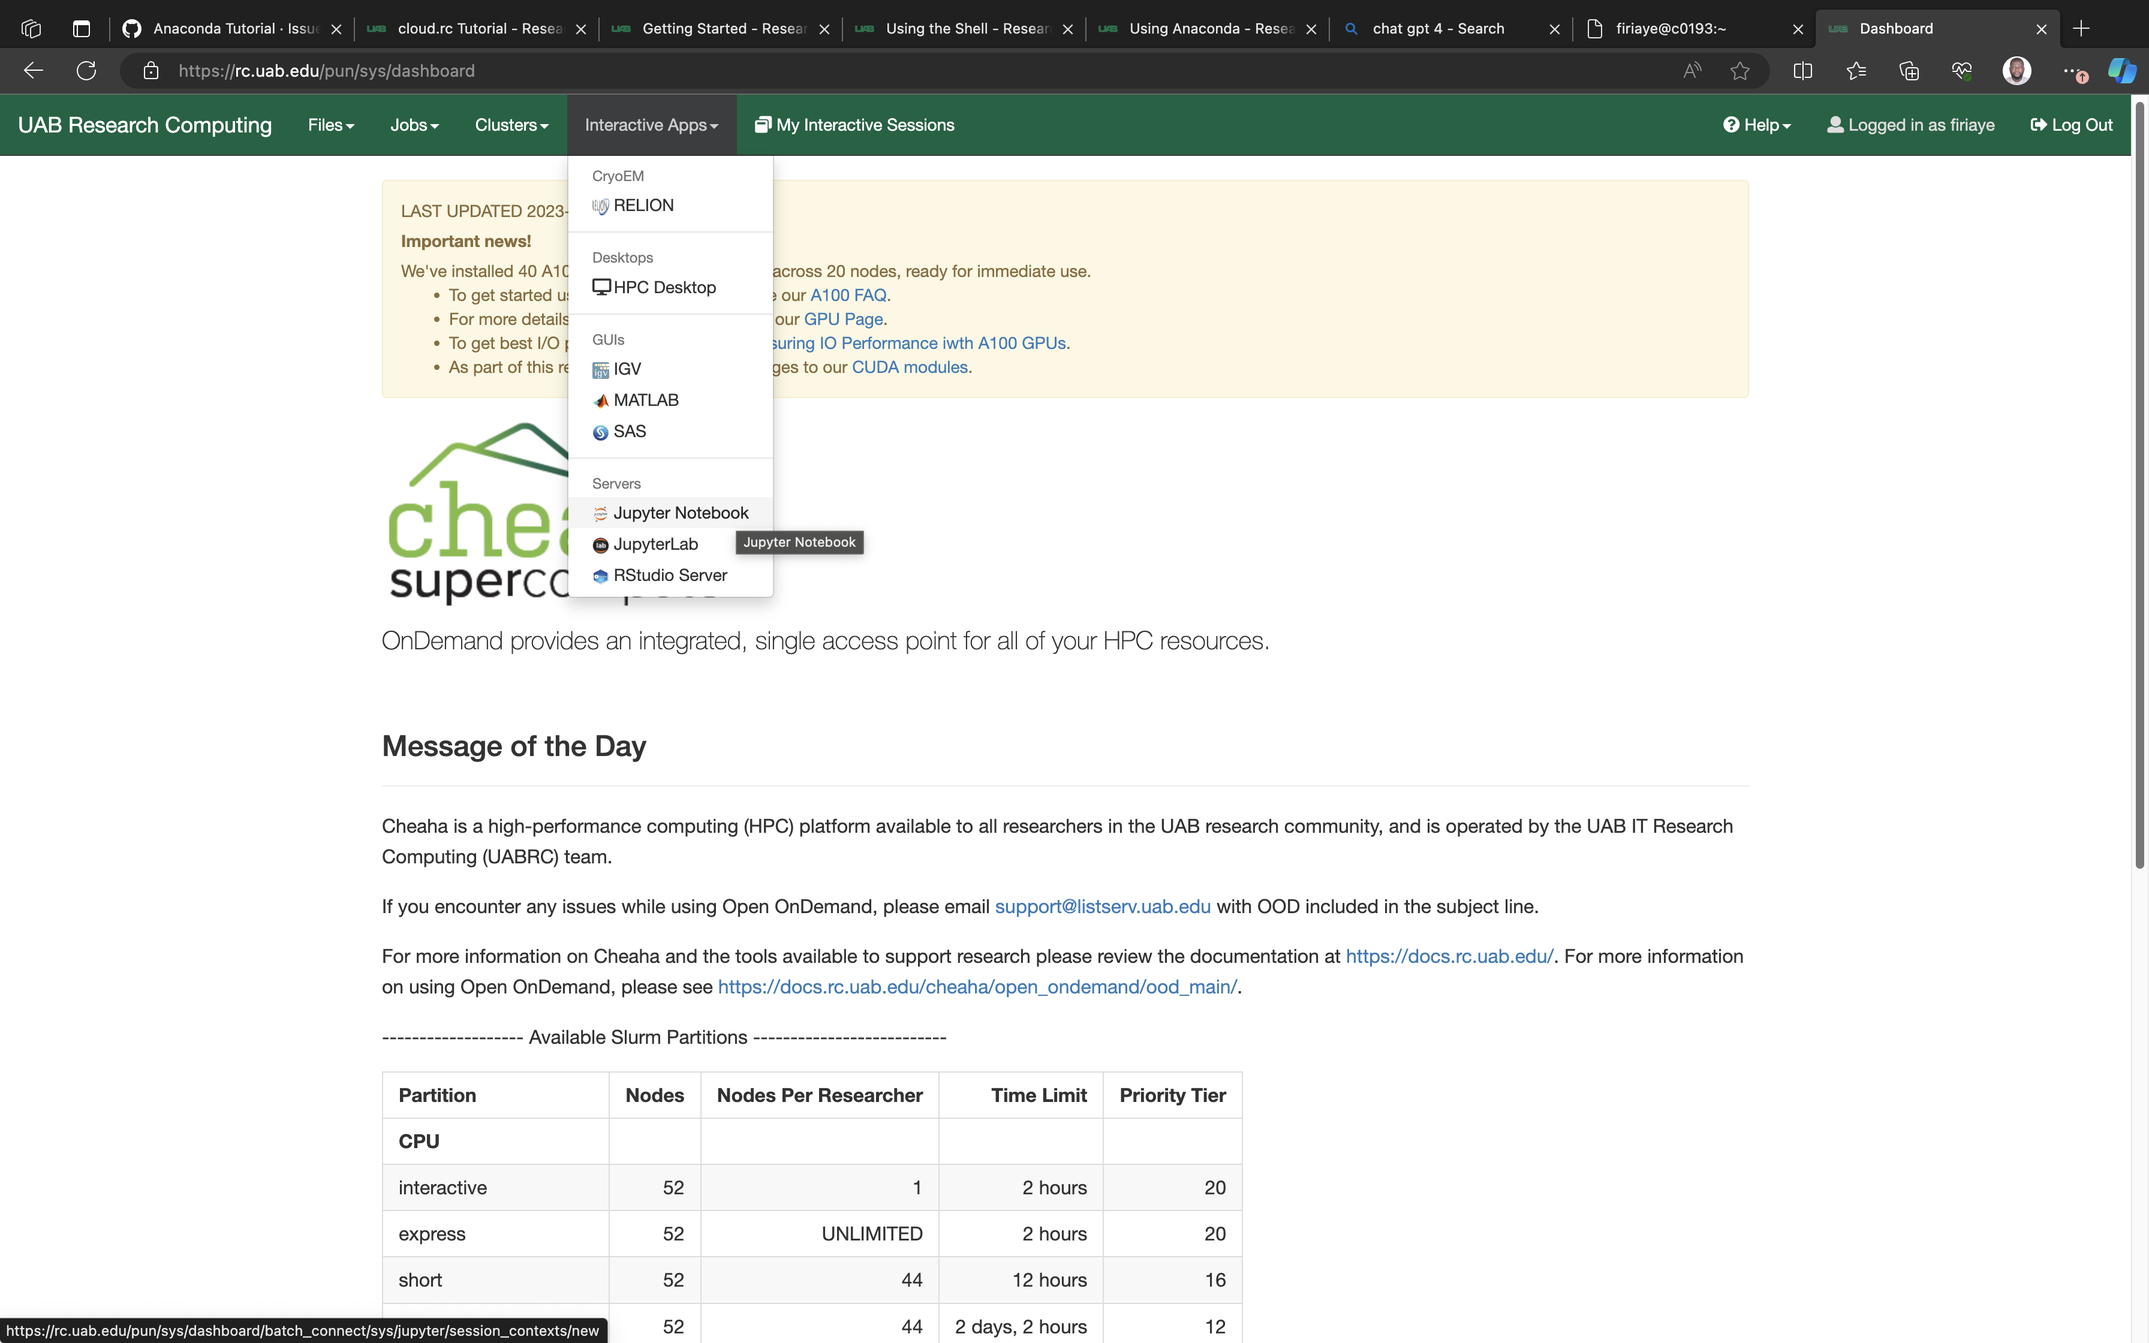
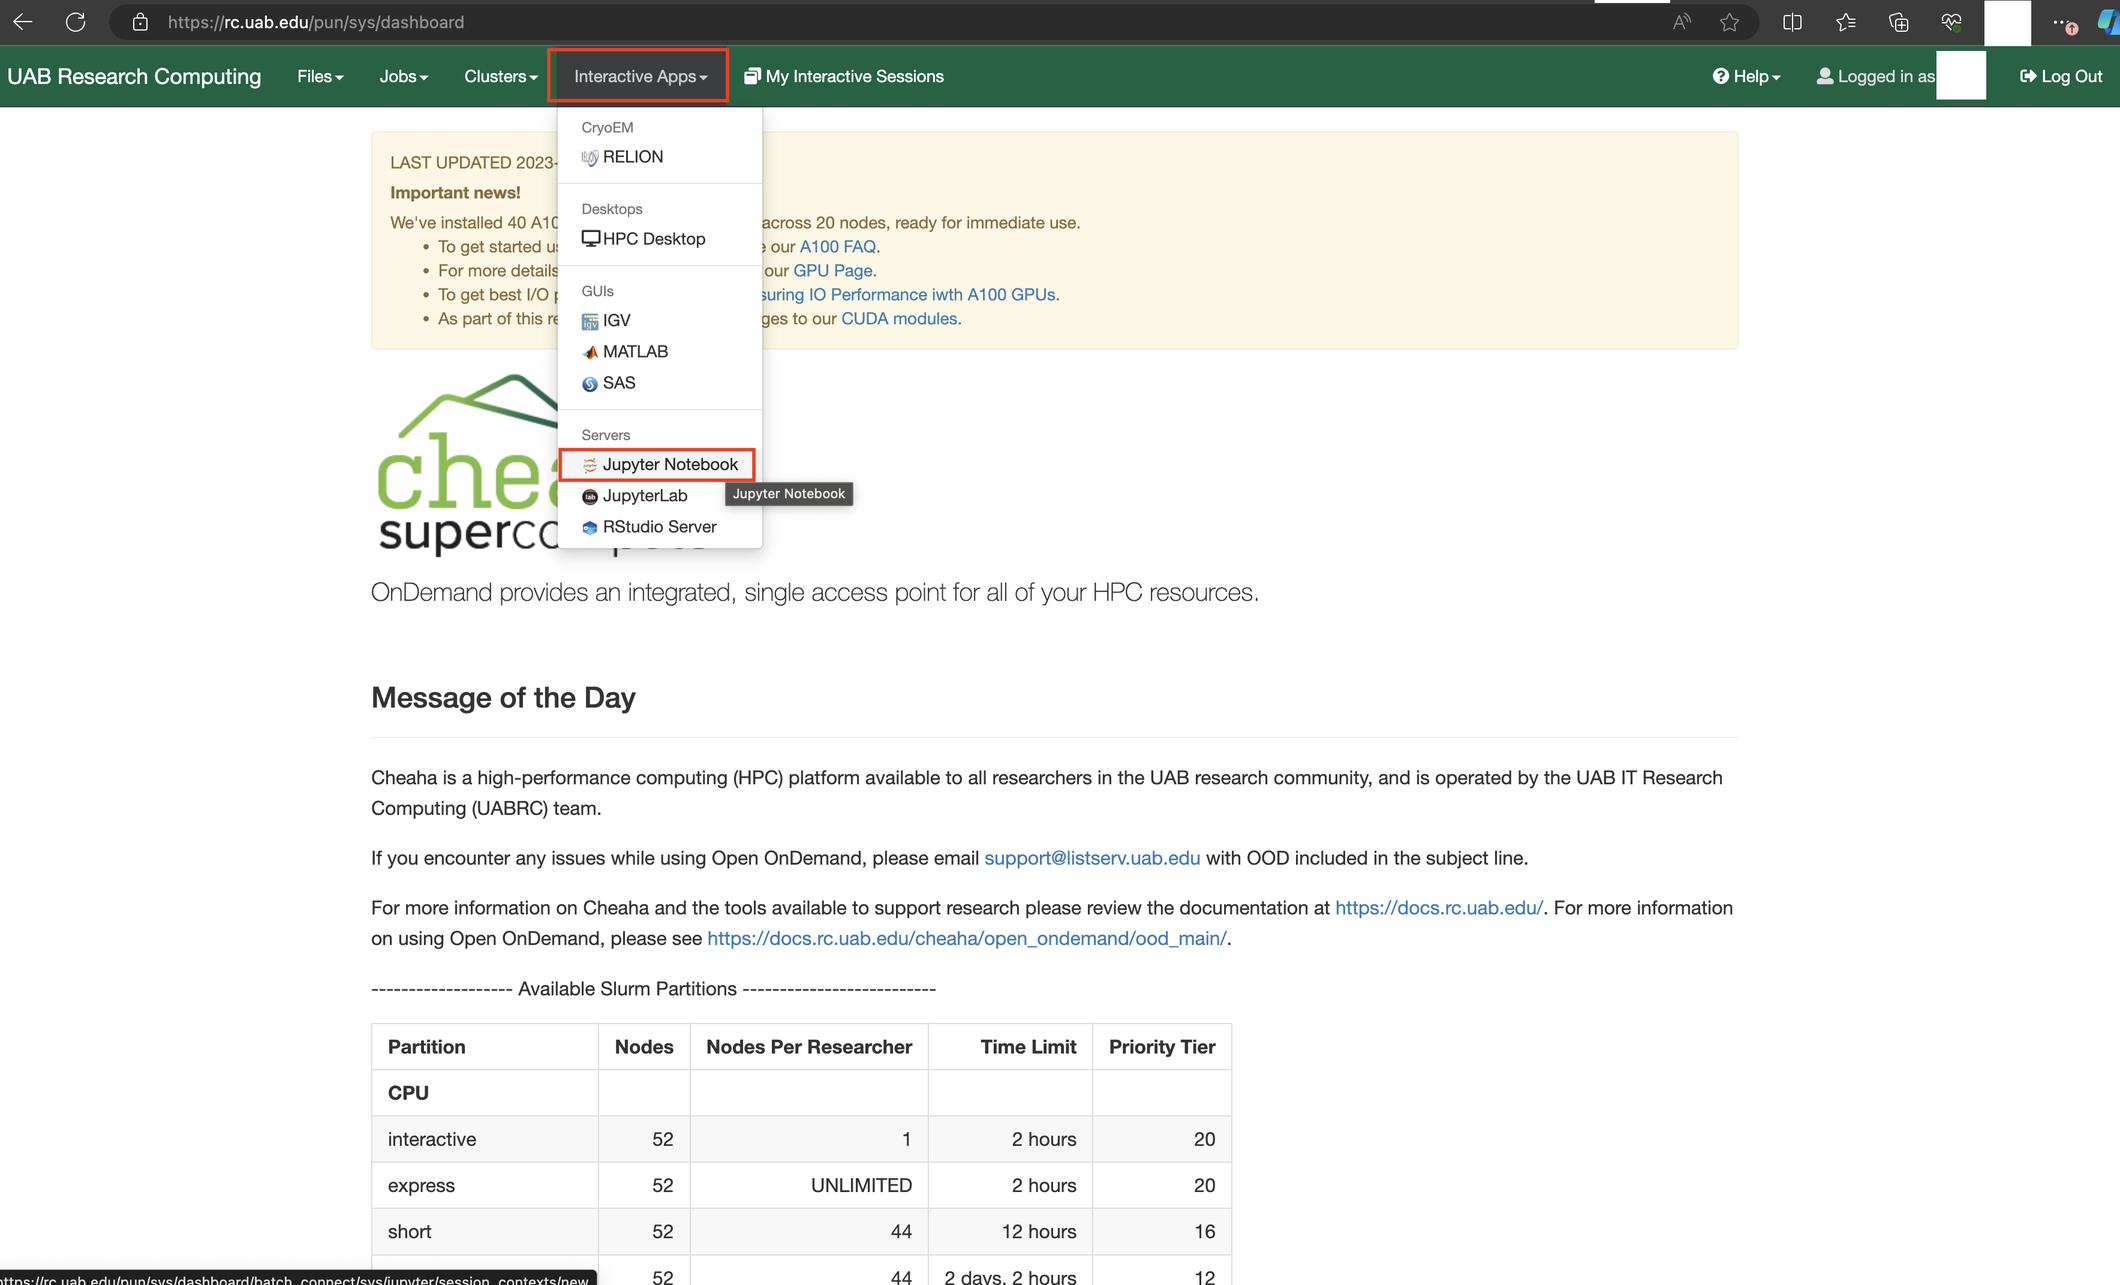
Created a Tutorial for Installing Pytorch and Tensorflow

diff --git a/docs/workflow_solutions/using_anaconda.md b/docs/workflow_solutions/using_anaconda.md
@@ -249,94 +249,144 @@ Now we can be sure that the correct versions of the software will be installed o
     The example above is provided only for illustration purposes. The error has since been fixed, but the example above really happened and is helpful to explain version pinning.
 <!-- markdownlint-enable MD046 -->
 
-### Creating a Jupyter Notebook Job
+## Anaconda Environment Tutorial for PyTorch and TensorFlow
 
-There are detailed steps here to guide your creation of a [Jupyter Notebook job](..//cheaha/open_ondemand/ood_interactive.md#jupyter-notebook)
+The below tutorial would show you steps on how to create an environment, activate, and install libraries/packages for machine and deep learning (PyTorch and Tensorflow) using an Anaconda environment on Cheaha. There are also steps on how to access and use the Shell Command Line Interface (CLI), and using Jupyter Notebook's Graphical User Interface (GUI) to work with these Anaconda environments. There are detailed steps here to guide your creation of a [Jupyter Notebook job.](..//cheaha/open_ondemand/ood_interactive.md#jupyter-notebook)
 
-### Anaconda Environment Tutorial for PyTorch and TensorFlow
-
-The below tutorial would show you steps on how to create/set-up, activate, switch, update, delete, track changes, and finally share an Anaconda environment on Cheaha for reproducibility and collaboration. There are also steps on how to access and use the Shell Command Line Interface (CLI), and using Jupyter Notebook's Graphical User Interface (GUI) to work with anaconda environments.
-
-### Access Cheaha Command Line Interface
+### Installing Anaconda Environments using Cheaha's Command Line Interface (CLI)
 
 To access Cheaha's CLI (shell), please follow the below steps.
 
-i. Login to [rc.uab.edu](https://rc.uab.edu)
+1. Login to [rc.uab.edu](https://rc.uab.edu)
 
-ii. Create a job on Cheaha using the Interactive Apps dropdown option.![!Interactive Apps Dropdown Menu](images/interactive_dropdown.png)
+2. Create a job on Cheaha using the Interactive Apps dropdown option.![!Interactive Apps Dropdown Menu](images/interactive_dropdown.png)
 
-iii. Select Jupyter Notebook, and fill out the options, as per your compute needs, then click Launch.![!Jupyter Launch Button](images/jupyter_launch.png)
+3. Select Jupyter Notebook, and fill out the options, as per your project needs, then click Launch.  For more information on compute needs, and a guide for selecting the right options click [here](..//cheaha/job_efficiency.md#estimating-compute-resources). ![!Jupyter Launch Button](images/jupyter_launch.png)
 
-iv. When the job has been created, on the My Interactive Sessions page, click the button in front of Host (usually colored blue) in the format >_c0000.
+4. Click the Connect to Jupyter button ![!Connect to Jupyter Button](images/connect_to_jupyt_button.png)
+
+    You will see the below interface. ![!Jupyter Notebook Landing Page](images/jupyter_landing_page.png)
+
+5. When the job has been created, on the My Interactive Sessions page, click the button in front of Host (usually colored blue) in the format >_c0000.
 ![!host image](images/cheaha_shell_button.png)
-This should open into a Shell CLI as shown below. ![!Cheaha Shell CLI](images/cheaha_shell_cli.png)
 
-For more information on compute needs, and a guide for selecting the right options click [here](..//cheaha/job_efficiency.md#estimating-compute-resources)
+    This should open into a Shell CLI as shown below. ![!Cheaha Shell CLI](images/cheaha_shell_cli.png)
+
+6. In this interface, you can create, and activate environments, as well as install packages, modules and libraries into your activated environment.
 
 ### Creating and Activating an Environment Using Cheaha CLI
 
-Please follow the detailed guides on how to create and then activate a custom anaconda environment. [Creating an Environment](..//workflow_solutions/using_anaconda.md#create-an-environment). [Activating an Environment](..//workflow_solutions/using_anaconda.md#activate-an-environment)
+Please follow the detailed guides below on how to create and then activate a custom anaconda environment. For more information on these, please visit the links for [Creating an Environment](..//workflow_solutions/using_anaconda.md#create-an-environment). And [Activating an Environment](..//workflow_solutions/using_anaconda.md#activate-an-environment)
 
 Once your Anaconda environment has been created and activated, it would appear as shown below.
 
 ![!Activated Environment](images/activated_env.png)
 
-You can now install relevant python libraries, and modules alongside their dependencies. For example, if you would like to install a Deep Learning library (e.g. PyTorch or TensorFlow) inside of your activated environment. Follow the below steps on how to install this on Cheaha.
+You can now install relevant python libraries, and modules alongside their dependencies. For example, you may want to install a Deep Learning library (e.g. PyTorch or TensorFlow) inside of your activated environment. Follow the below steps on how to install these on Cheaha.
 
-### Steps to Install PyTorch CPU and GPU Versions Using Cheaha CLI
+### How do we create a custom environment for PyTorch and TensorFlow
 
-There are two instances of PyTorch that can be installed, one requiring a GPU, and another utilising only CPUs. For pytorch requiring only CPUs, enter the below command In your job shell.
+The instructions below, provide a recommended step by step guide to creating and activating an environment that has PyTorch and/or TensorFlow installed and ready to use for deep learning projects.
+
+### Steps to Install PyTorch Using Cheaha CLI
+
+There are two instances of PyTorch that can be installed, one requiring GPUs, and another utilising only CPUs. GPUs generally improve project compute speeds and are preferred. For both instances of pytorch, please follow these steps;
+
+1. [Create](..//workflow_solutions/using_anaconda.md#create-an-environment) and [activate](..//workflow_solutions/using_anaconda.md#activate-an-environment) an environment as stated in the links.
+
+1. Access the CLI following the steps [here.](..//workflow_solutions/using_anaconda.md#installing-anaconda-environments-using-cheahas-command-line-interface-cli)
+
+<!-- markdownlint-disable MD046 -->
+!!! note
+
+    When installing packages, modules and libraries into environments, remember to also install `ipykernel` using `conda install ipykernel`. This way your activated environment would appear in the list of kernels in your Jupyter Notebook. 
+
+<!-- markdownlint-enable MD046 -->
+
+For a correct installation of pytorch, we have to ensure some conditions are met. See partition [docs](..//cheaha/hardware#details.md) for a guide. One of such conditions, is to load CUDA toolkit using the below command in your environment setup form (see image below).
 
 ```bash
-# Install CPU dependent PyTorch using conda. 
 
-conda install pytorch-cpu torchvision-cpu -c pytorch
+module load CUDA/11.8.0
 
 ```
 
-For pytorch requiring GPUs, enter the below command In your job shell.
+![!load CUDA](images/module_load_cuda.png)
+
+<!-- markdownlint-disable MD046 -->
+!!! note
+
+    The cudatoolkit version may vary, as at the time of this tutorial, 11.8 is the version used. Running `nvidia-smi`, as in the image below, will show you the status, version and other information on GPUs in your created job session. The CUDA version is highlighted. The GPU CUDA Version available on Cheaha at the time of this tutorial is 12.3. Because the toolkit version used is lower than the Cheaha GPU version, it works. 
+
+<!-- markdownlint-enable MD046 -->
+
+![!nvidia-smi output](images/CudaVersion.png)
+
+When your job has been created and your environment created and activated from the cheaha CLI (see above [instructions](..//workflow_solutions/using_anaconda.md#create-an-environment)), run the below command.
 
 ```bash
-# Install GPU dependent PyTorch using conda. 
 
-conda install pytorch torchvision torchaudio cudatoolkit=11.1 -c pytorch -c nvidia
+conda install pytorch torchvision torchaudio cudatoolkit=11.8 -c pytorch -c nvidia
 
 ```
 
-These commands will install PyTorch into your environment.
+This commands will install a GPU compatible PyTorch version into your environment. To verify PyTorch is installed, and to see what version you have installed in your environment, use the below command.
 
-The same process can be followed for installing another Deep Learning library Tensorflow with some minute differences. You may decide to install the TensorFlow library into the same environment or create a new one. Like with PyTorch, TensorFlow also has CPU and GPU versions.
+```bash
+
+conda list | grep "torch"
+
+```
+
+You should get an output like the below image.
+
+![!PyTorch Env Output](images/pytorchversion_output.png)
+
+The same process can be followed for installing another Deep Learning library Tensorflow (see instructions [below](..//workflow_solutions/using_anaconda.md#steps-to-install-tensorflow)) with some minute differences. You may decide to install the TensorFlow library into the same environment or create a new one. As a best practice, you may want to install these libraries in different environments.
+
+### Using PyTorch on Jupyter Notebook
+
+As an example we will be using a sample Jupyter Notebook with just a simple torch function to test if a GPU will be utilized with PyTorch functions. Run the command in a cell, and if your output is `True`, then you have your GPU setup to support PyTorch functions.
+
+```bash
+
+import torch
+
+print(torch.cuda.is_available())
+```
+
+![!PyTorch Jupyter Notebook Output](images/pytorch_output.png)
 
 ### Steps to Install TensorFlow CPU and GPU Versions Using Cheaha CLI
 
-i. The TensorFlow CPU version requires pip to be up-to-date, to install and upgrade pip to the latest version use the below command.
+1. Create a new environment that is compatible with supported tensorflow versions, use the below command to do this. For this tuorial we use Python 3.11.
 
-```bash
-# Install and Upgrade pip. 
+    ```bash
+    # Create an environment compatible with Python Version 3.11 
 
-pip install -—upgrade pip
+    conda create -n tensorflow python=3.11
 
-```
+    ```
 
-ii. Install TensorFlow with pip
+2. The TensorFlow CPU and GPU versions requires pip to be up-to-date, to install and upgrade pip to the latest version use the below command.
 
-```bash
-# Install CPU Version TensorFlow. 
+    ```bash
 
-pip install tensorflow
+    pip install -—upgrade pip
 
-```
+    ```
 
-The above command will install a CPU version of TensorFlow.
+3. Install TensorFlow with pip
 
-```bash
-# Install GPU Version TensorFlow. 
+    ```bash
 
-pip install tensorflow[and-cuda]
+    pip install tensorflow[and-cuda]
 
-```
+    ```
 
-The above command will install a GPU version of TensorFlow.
+The image below shows an output that the TensorFlow library will utilize the available GPU.
+
+![TensorFlow GPU](images/tensor_gpu.png)
 
 ### Update packages in an environment
 
@@ -364,43 +414,42 @@ conda env remove —-name <env>
 
 To share your environment for collaboration, there are primarily 3 ways to export environments, the below commands show how to create environment files that can be shared for replication.
 
-i. Cross-Platform Compatible
+1. Cross-Platform Compatible
 
-```bash
-# Create .yml file to share, replace <env> with preferred name for file.
+    ```bash
+    #Create .yml file to share, replace <env> with preferred name for file.
 
-conda enc export --from-history > <env>.yml 
+    conda env export --from-history > <env>.yml 
 
-```
+    ```
 
-ii. Platform + Package Specific
+1. Platform + Package Specific
 
-```bash
-# Create .yml file to share, replace <envname> (represents the name of your environment) and <env> (represents the name of the file you want to export) with preferred names for file.
+    ```bash
+    #Create .yml file to share, replace <envname> (represents the name of your environment) and <env> (represents the name of the file you want to export) with preferred names for file.
 
-conda env export <envname> > <env>.yml 
+    conda env export <envname> > <env>.yml 
 
-```
+    ```
 
-iii. Platform + Package + Channel Specific
+1. Platform + Package + Channel Specific
 
-```bash
-# Create .yml or .txt file to share, replace <env> with preferred name for file.
+    ```bash
+    # Create .yml or .txt file to share, replace <env> with preferred name for file.
 
-conda list —-explicit > <env>.txt
+    conda list —-explicit > <env>.txt
 
-            OR
+                OR
 
-conda list —-explicit > <env>.yml
+    conda list —-explicit > <env>.yml
 
-```
+    ```
 
 ### Activating/Using a shared environment file
 
-To use an environment file shared with you, navigate into the folder where you have the .yml file saved. When in the folder, use use the command
+To use an environment file shared with you, navigate into the folder where you have the .yml file saved. When in the folder, use use the command to create .yml file in your terminal, replace `<env>` with the environment file name.
 
 ```bash
-# Create .yml file in your terminal, replace <env> with the environment file name.
 
 conda env create -—file <env>.yml 
 
@@ -410,16 +459,16 @@ conda env create -—file <env>.yml
 
 Switching between two environments containing different libraries, packages, and dependencies can be carried out following the below steps.
 
-i. Activate an environment using the below command
+1. Activate an environment using the below command
 
-```bash
-# Activate an environment, replace <env> with name of environment.
+    ```bash
+    # Activate an environment, replace <env> with name of environment.
 
-conda activate <env>
+    conda activate <env>
 
-```
+    ```
 
-ii. To switch the environment, you can do one of the below options using the below commands
+1. To switch the environment, you can do one of the below options using the below commands
 
 a. By using this command
 
@@ -443,15 +492,31 @@ conda activate <env2>
 
 ```
 
+### Creating and Activating an Environment after creating a Jupyter Notebook file
+
+We can create a new environment, that houses all of the packages, modules, and libraries we need for our current Jupyter Notebook to implement functions and operations, run all of its cells and deliver desired outputs. Follow the steps below to accomplish this;
+
+1. Access Cheaha Shell (CLI), there are detailed steps on how to do this [here.](..//workflow_solutions/using_anaconda.md#creating-and-activating-an-environment-using-cheaha-cli)
+
+1. [Create](..//workflow_solutions/using_anaconda.md#create-an-environment) and [activate](..//workflow_solutions/using_anaconda.md#activate-an-environment) your new environment, follow instructions in the linked docs.
+
+1. Install your desired packages, libraries or modules into your activated environment using `conda install 'packagename'` or `pip install 'packagename'`. Packagename representing your needed library, module or package.
+
+1. Remember to install 'ipykernel' in your activated environment, using `conda install ipykernel`.
+
+1. Go into your working Jupyter Notebook file, and follow the instructions listed [here](..//workflow_solutions/using_anaconda.md#changing-environments-using-jupyter-notebook-gui). You may have to refresh the page to see your newly created environment in the kernel drop down menu.
+
 ### Changing Environments using Jupyter Notebook GUI
 
-When your Jupyter Notebook Job has been created on Cheaha, and you want to load an environment you have already created. Select from the dropdown menu "New". You can find this in the top right corner of the Jupyter Notebook landing page. Select the preferred existing environment you created. ![!Select Environment](images/selectenvsjupyter.png).
+1. When your Jupyter Notebook Job has been created on Cheaha, and you want to load an environment you have already created. Select from the dropdown menu "New". You can find this in the top right corner of the Jupyter Notebook landing page. ![!Select Environment](images/selectenvsjupyter.png)
+
+1. When you click new, you would see a dropdown of environments that are available for you to use. If you do not see your created environment listed, you may need to install `ipykernel` using `conda install ipykernel` in your cheaha shell within your activated environment. Select the preferred existing environment you created. ![!Kernel/Environment Drop Down](images/jpnotebook_landingpage_kernel.png)
 
 On another note, you may want to replicate an environment setup to handle a project, research, or analysis but you are already working on a Jupyter Notebook file. You can select a different environment from the Jupyter Notebook file by;
 
-i. Selecting the Jupyter Notebook File from your landing page.
+1. Selecting the Jupyter Notebook File from your landing page.
 
-ii. While in the file, look for the menu option "Kernel", select this. In the Kernel dropdown option, select "Change kernel". Then select your preferred kernel environment. Wait a few seconds for it to load, and you are ready to use your preferred environment. ![!Changing Environment](images/changingkernel.png).
+1. While in the file, look for the menu option "Kernel", select this. In the Kernel dropdown option, select "Change kernel". Then select your preferred kernel environment. Wait a few seconds for it to load, and you are ready to use your preferred environment. Selecting this would open a new Jupyter Notebook file with your selected environment. ![!Changing Environment](images/changingkernel.png).
 
 #### Good Software Development Practice
 
